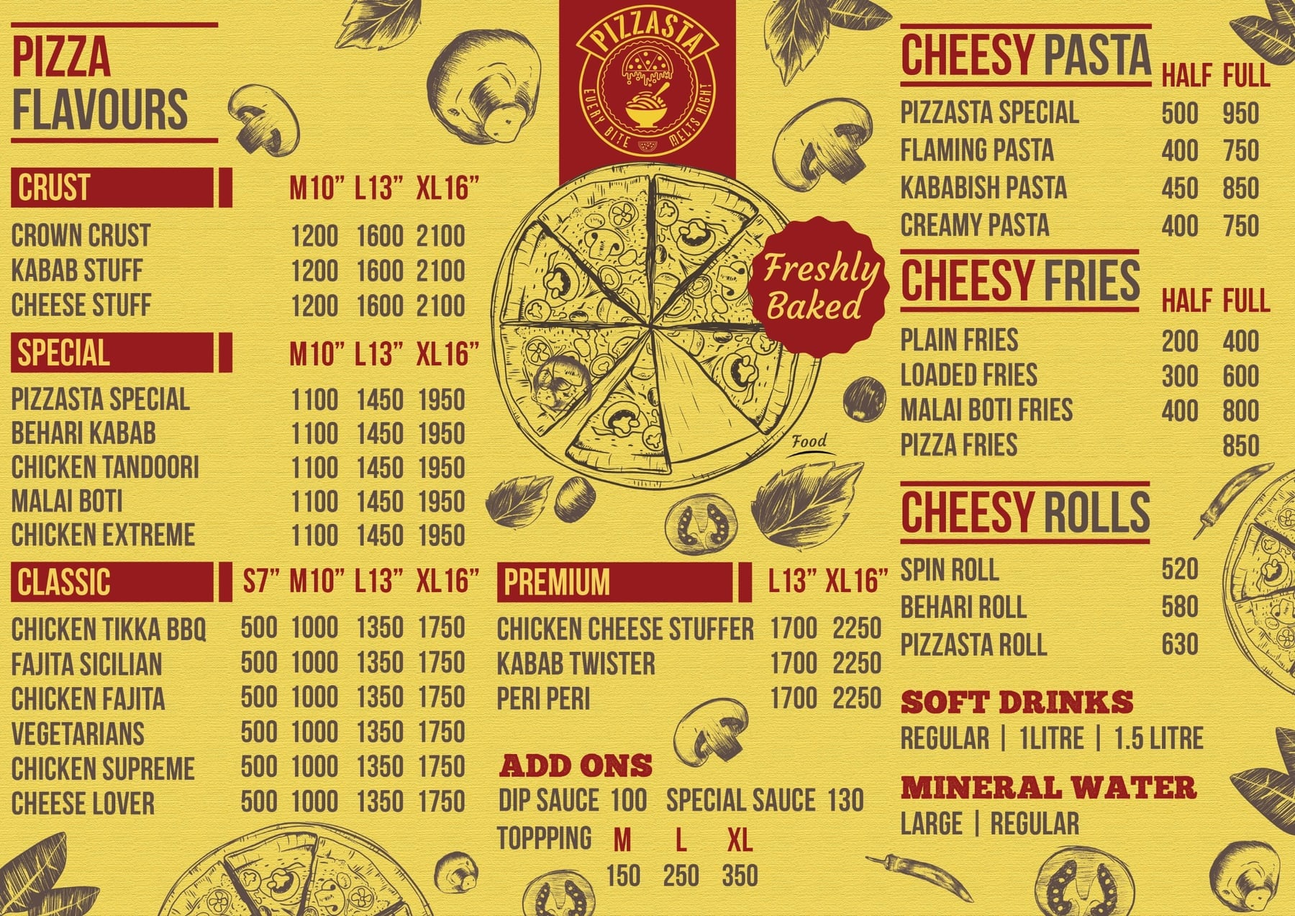
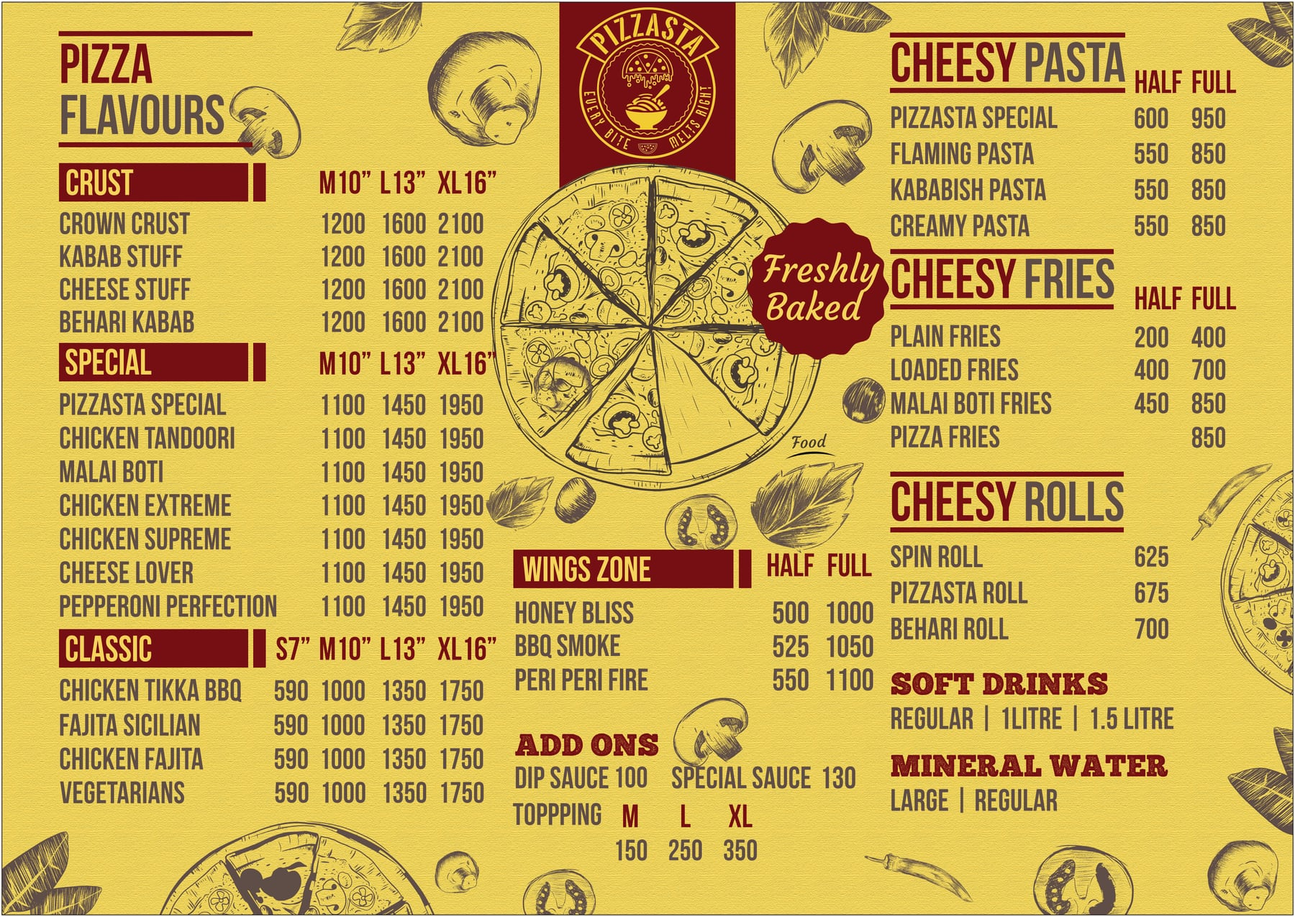
feat: Add new menu and deals posters from client PDFs
- Replace menu-board.jpg with the new menu (rendered from PDF, 1800px, mozjpeg q84)
- Add menu-deals.jpg poster with a second lightbox button
- Match menu to new poster: add Pepperoni Perfection, rename Chipotle Smoke to BBQ Smoke

diff --git a/components/Menu.tsx b/components/Menu.tsx
@@ -139,6 +139,13 @@ export default function Menu() {
                   <td>1450</td>
                   <td>1950</td>
                 </tr>
+                <tr>
+                  <td>Pepperoni Perfection</td>
+                  <td>—</td>
+                  <td>1100</td>
+                  <td>1450</td>
+                  <td>1950</td>
+                </tr>
               </tbody>
             </table>
           </div>
@@ -320,7 +327,7 @@ export default function Menu() {
                   <td>1000</td>
                 </tr>
                 <tr>
-                  <td>Chipotle Smoke</td>
+                  <td>BBQ Smoke</td>
                   <td>525</td>
                   <td>1050</td>
                 </tr>
@@ -373,16 +380,28 @@ export default function Menu() {
           </div>
         </div>
 
-        <a
-          className="menu-ref-link btn btn-outline js-lightbox-trigger"
-          href="/images/menu-board.jpg"
-          onClick={(e) => {
-            e.preventDefault();
-            open("/images/menu-board.jpg", "Pizzasta full menu poster");
-          }}
-        >
-          🔍 View full menu poster
-        </a>
+        <div className="menu-ref-links">
+          <a
+            className="btn btn-outline js-lightbox-trigger"
+            href="/images/menu-board.jpg"
+            onClick={(e) => {
+              e.preventDefault();
+              open("/images/menu-board.jpg", "Pizzasta full menu poster");
+            }}
+          >
+            🔍 View full menu poster
+          </a>
+          <a
+            className="btn btn-outline js-lightbox-trigger"
+            href="/images/menu-deals.jpg"
+            onClick={(e) => {
+              e.preventDefault();
+              open("/images/menu-deals.jpg", "Pizzasta deals menu — Deals 1 to 5 with branch addresses");
+            }}
+          >
+            🔍 View deals menu
+          </a>
+        </div>
       </div>
     </section>
   );

diff --git a/scripts/optimize-images.js b/scripts/optimize-images.js
@@ -15,7 +15,7 @@ const jpegJobs = [
   { pattern: /^promo-.*\.jpg$/, maxWidth: 1400, quality: 80 },
   { pattern: /^menu-grid\.jpg$/, maxWidth: 1200, quality: 80 },
   { pattern: /^hero-melts-right\.jpg$/, maxWidth: 2000, quality: 78 },
-  { pattern: /^menu-board\.jpg$/, maxWidth: 1800, quality: 84 },
+  { pattern: /^menu-(board|deals)\.jpg$/, maxWidth: 1800, quality: 84 },
   { pattern: /^hero-deal-[1-5]\.jpg$/, maxWidth: 2400, quality: 78 },
   { pattern: /^serve-.*\.jpg$/, maxWidth: 900, quality: 80 },
 ];

diff --git a/app/globals.css b/app/globals.css
@@ -504,9 +504,11 @@ h4 {
 
 /* ===== Menu ===== */
 
-.menu-ref-link {
-  display: block;
-  text-align: center;
+.menu-ref-links {
+  display: flex;
+  flex-wrap: wrap;
+  justify-content: center;
+  gap: 12px;
   margin-top: 36px;
 }
 
